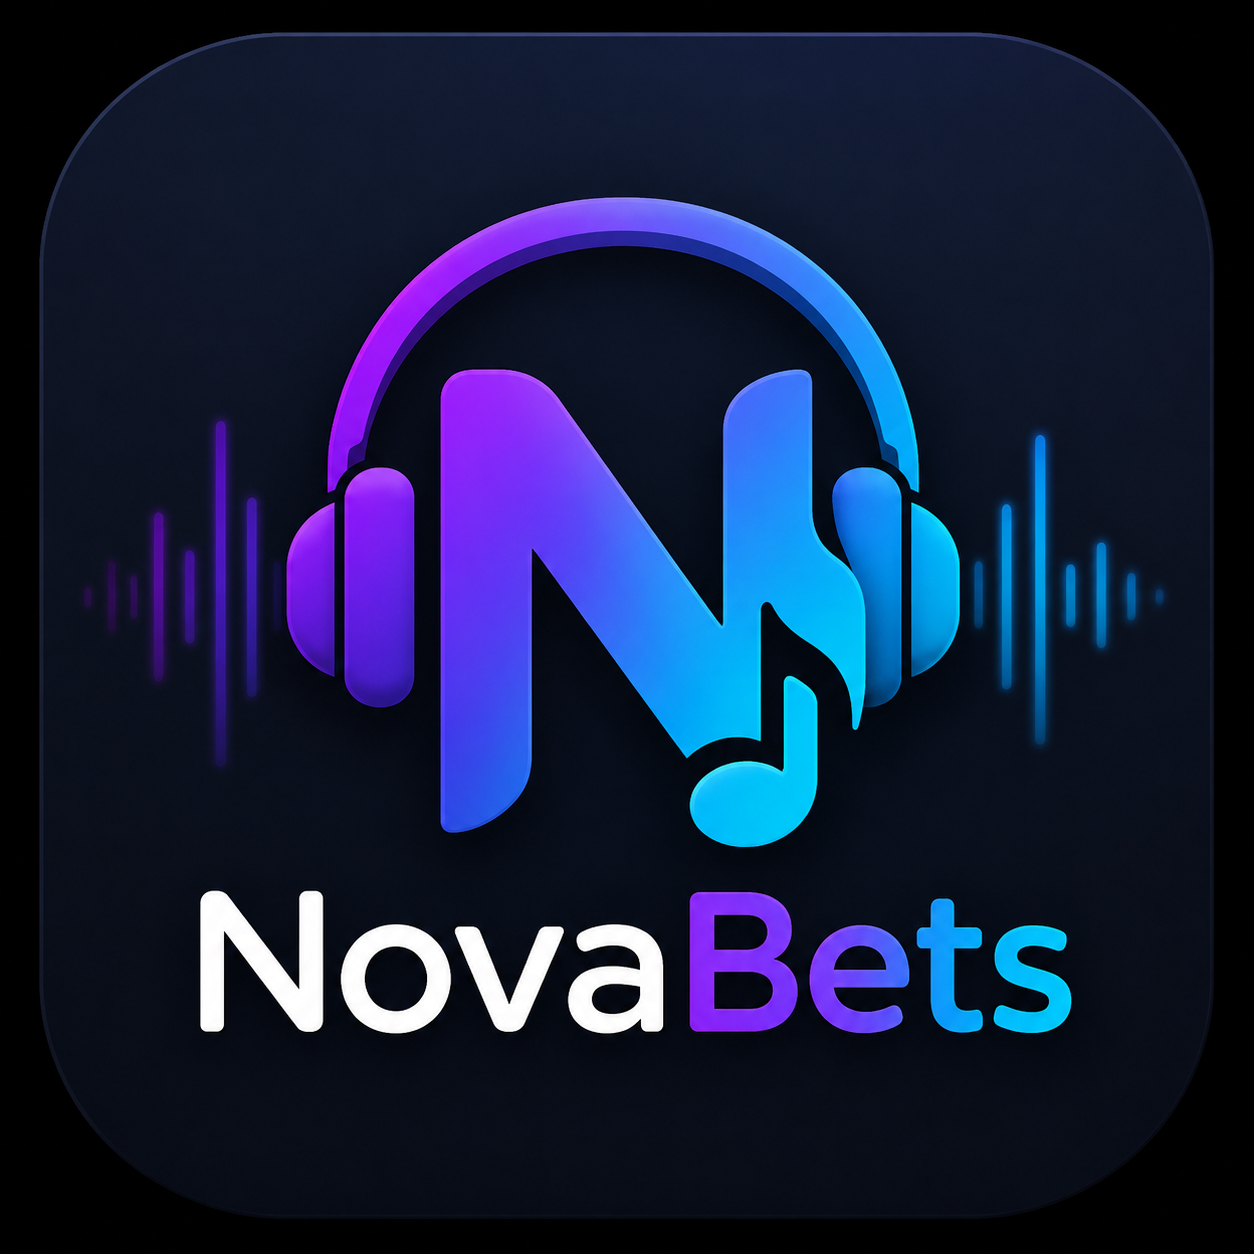
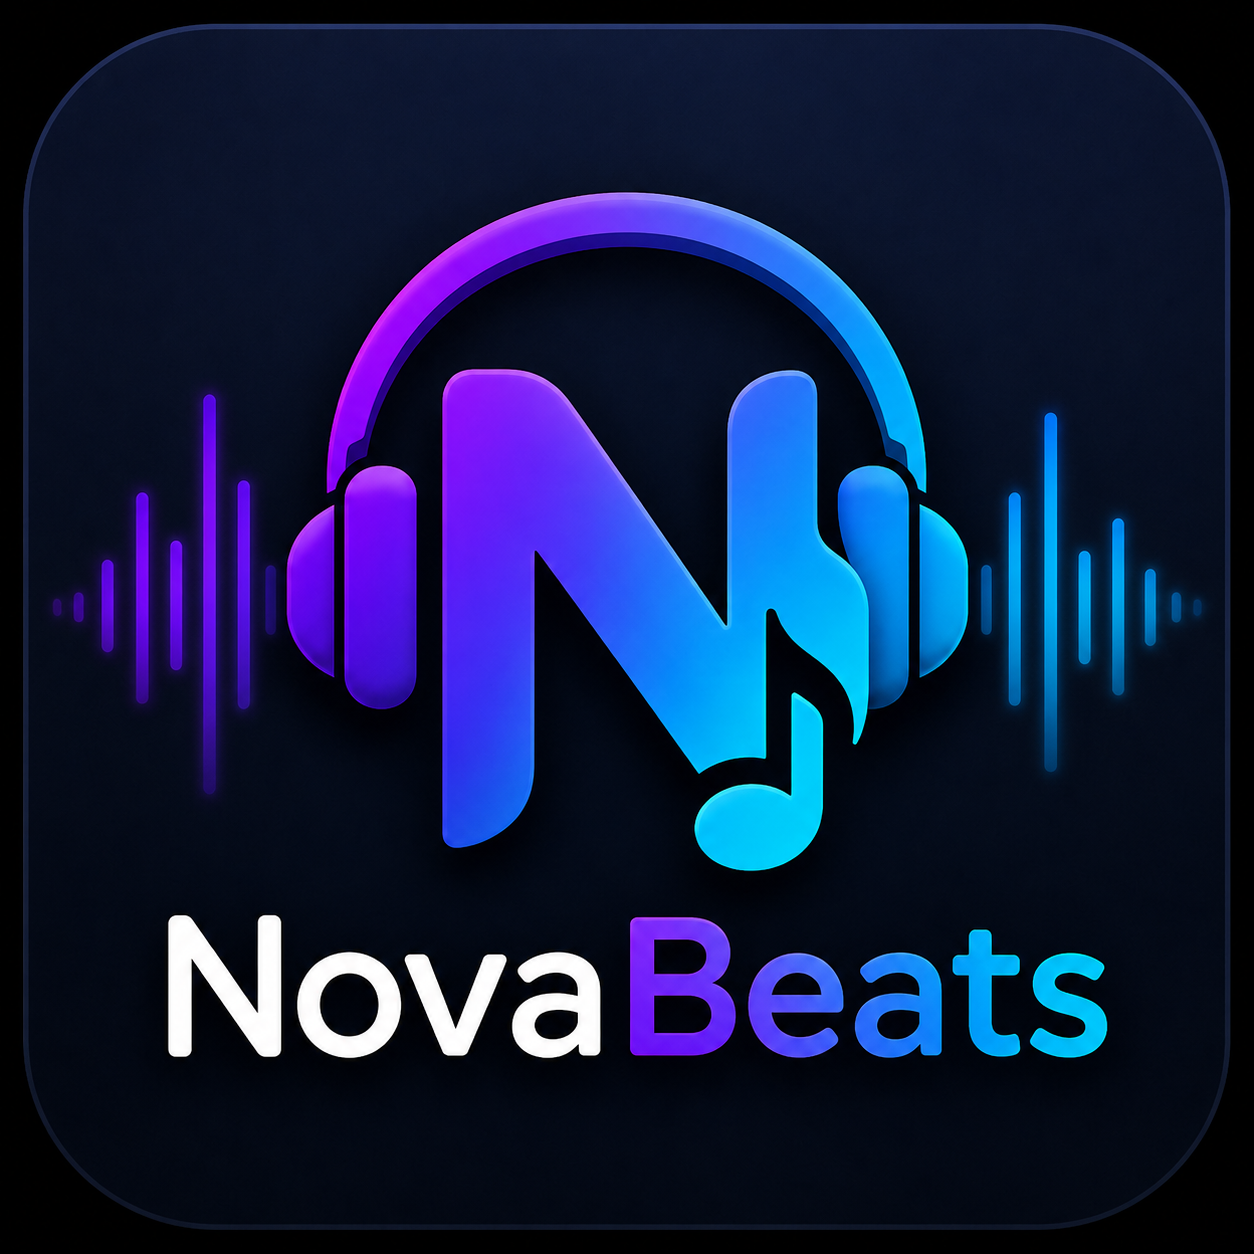
cambia error de nombre

diff --git a/src/index.html b/src/index.html
@@ -14,7 +14,7 @@
     <meta http-equiv="Content-Security-Policy" content="default-src 'self'; img-src 'self' blob:; script-src 'self';" />
     <meta http-equiv="X-Content-Security-Policy"
         content="default-src 'self'; img-src 'self' blob:; script-src 'self';" />
-    <title>NovaBets</title>
+    <title>NovaBeats</title>
 </head>
 
 <body>
@@ -86,7 +86,7 @@
                         </span>
                         <div id="ambasListas">
                             <div id="listaVacia" class="listaVacia hidden">
-                                <h2>NovaBets</h2>
+                                <h2>NovaBeats</h2>
                                 <p>-- Seleccione una carpeta o archivo para comenzar --</p>
                             </div>
                             <ul id="listaReproduccion" class=""></ul>

diff --git a/src/renderer/currentTrack.js b/src/renderer/currentTrack.js
@@ -2,10 +2,10 @@ let current = {
   id: 0,
   path: null,
   metadata: {
-    title: "NovaBets",
+    title: "NovaBeats",
     artist: "Music Player",
     duration: "00:00",
-    cover: ""
+    cover: "",
   },
 };
 

diff --git a/src/renderer/mostrarDatos.js b/src/renderer/mostrarDatos.js
@@ -1,4 +1,4 @@
-import { artistEl, imgCover, titleEl  } from "../modules/renderer.js";
+import { artistEl, imgCover, titleEl } from "../modules/renderer.js";
 import { getCurrent } from "./currentTrack.js";
 
 let urlImagenActual = null;
@@ -43,7 +43,7 @@ export const mostrarMetadata = () => {
       });
     }
 
-    titleEl.textContent = metadatos.metadata.title || "NovaBets";
+    titleEl.textContent = metadatos.metadata.title || "NovaBeats";
     artistEl.textContent = metadatos.metadata.artist || "Music Player";
 
     navigator.mediaSession.playbackState = "playing";

diff --git a/README.md b/README.md
@@ -1,4 +1,4 @@
-# NovaBets
+# NovaBeats
 
 Reproductor de música local para Linux desarrollado con Electron.
 
@@ -6,7 +6,7 @@ Reproductor de música local para Linux desarrollado con Electron.
 
 **Versión actual:** 1.2.0
 
-NovaBets es una aplicación funcional y apta para uso diario. Actualmente se encuentra en fase beta, por lo que pueden existir errores no detectados.
+NovaBeats es una aplicación funcional y apta para uso diario. Actualmente se encuentra en fase beta, por lo que pueden existir errores no detectados.
 
 Los reportes de errores, sugerencias y comentarios son bienvenidos.
 
@@ -16,19 +16,13 @@ Los reportes de errores, sugerencias y comentarios son bienvenidos.
 
 ### Pantalla principal
 
-<!-- Reemplazar por la captura principal de la aplicación -->
-
 ![Pantalla principal](docs/screenshots/main-window.png)
 
 ### Playlist cargada
 
-<!-- Reemplazar por una captura mostrando una playlist con varias canciones -->
-
 ![Playlist](docs/screenshots/playlist.png)
 
 ### Información de la pista
-
-<!-- Reemplazar por una captura donde se vean los metadatos o la carátula -->
 
 ![Metadatos](docs/screenshots/track-info.png)
 
@@ -36,7 +30,7 @@ Los reportes de errores, sugerencias y comentarios son bienvenidos.
 
 ## Descripción
 
-NovaBets es un reproductor de música local orientado a usuarios que prefieren gestionar su propia biblioteca musical sin depender de servicios de streaming.
+NovaBeats es un reproductor de música local orientado a usuarios que prefieren gestionar su propia biblioteca musical sin depender de servicios de streaming.
 
 Permite cargar carpetas de audio, gestionar playlists personalizadas y reproducir música mediante una interfaz sencilla desarrollada con tecnologías web modernas.
 
@@ -100,8 +94,8 @@ El proyecto fue creado como parte de mi proceso de aprendizaje en desarrollo web
 Clonar el repositorio:
 
 ```bash
-git clone https://github.com/Alejandro-Elias/novabets.git
-cd novabets
+git clone https://github.com/Alejandro-Elias/novaBeats.git
+cd novaBeats
 ```
 
 Instalar dependencias: